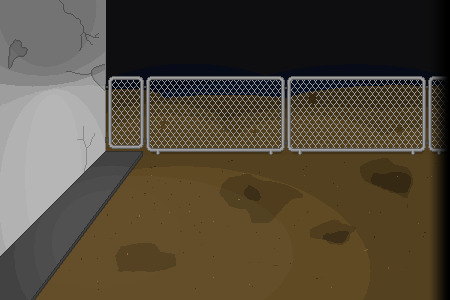
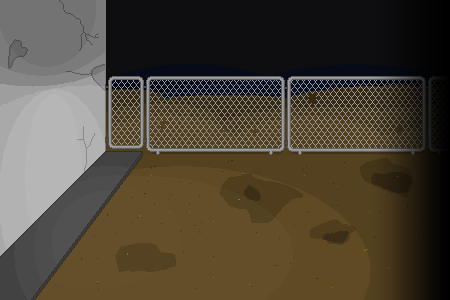
Addin assets to backyard scene

Changed region(s): [[0.8711, 0.24, 0.9956, 1.0]]

diff --git a/src/app/game/backyardScene/BackyardScene.ts b/src/app/game/backyardScene/BackyardScene.ts
@@ -5,6 +5,8 @@ import { Bili } from './Bili';
 import { LampBackyard } from './LampBackyard';
 import { Moon } from './Moon';
 import { Star } from './Star';
+import { CutFlowers } from './CutFlowers';
+import { Balloon } from './Balloon';
 import { Polygon } from '../../engine/utils/Polygon';
 import { IPoint } from '../../engine/utils/Interfaces';
 
@@ -12,14 +14,18 @@ const sceneOptions = {
     id: 'BACKYARD',
     backgroundId: 'BACKYARD_BG',
     boundariesConfig: new Polygon([
-        {x: 55, y: 216},
-        {x: 117, y: 164},
-        {x: 415, y: 164},
+        {x: 60, y: 216},
+        {x: 117, y: 173},
+        {x: 243, y: 173},
+        {x: 243, y: 197},
+        {x: 415, y: 197},
         {x: 415, y: 216}
     ]),
     things: [
         new BackyardDoorToBackstage(),
+        new CutFlowers(),
         new Flowers(),
+        new Balloon(),
         new Bili(),
         new LampBackyard(),
         new Moon()

diff --git a/src/app/game/backyardScene/Balloon.ts b/src/app/game/backyardScene/Balloon.ts
@@ -1,0 +1,28 @@
+import { Thing } from '../../engine/models/Thing';
+import { DoctortillaPlayer } from '../DoctortillaPlayer';
+import { selectedThing } from '../../engine/state/SelectedObjects';
+import { Costume } from '../backstageScene/Costume';
+import { Skirt } from '../backstageScene/Skirt';
+import { Coconut } from '../backstageScene/Coconut';
+import { Directions } from '../../engine/utils/Directions';
+
+const options = {
+    id: 'balloon',
+    x: 252,
+    y: 96,
+    spriteId: 'BALLOON',
+    name: 'balloon',
+    goToPosition: {
+        x: 239,
+        y: 185
+    },
+    directionToLook: Directions.RIGHT
+};
+
+export class Balloon extends Thing {
+
+    constructor() {
+        super(options);
+    }
+
+}

diff --git a/src/app/game/backyardScene/Bili.ts b/src/app/game/backyardScene/Bili.ts
@@ -2,17 +2,19 @@ import { Thing } from '../../engine/models/Thing';
 import { DoctortillaPlayer } from '../DoctortillaPlayer';
 import { SpeechBubble } from '../../engine/ui/SpeechBubble';
 import { ConversationWithBili } from './ConversationWithBili';
+import { Directions } from '../../engine/utils/Directions';
 
 let options = {
     id: 'bili',
-    x: 274,
-    y: 151,
+    x: 265,
+    y: 121,
     spriteId: 'BILI',
     name: 'bili',
     goToPosition: {
-        x: 260,
-        y: 215
-    }
+        x: 239,
+        y: 185
+    },
+    directionToLook: Directions.RIGHT
 };
 
 export class Bili extends Thing {

diff --git a/src/app/game/AssetsManager.ts b/src/app/game/AssetsManager.ts
@@ -66,7 +66,9 @@ const IMAGES: IImagesInfo = {
     'BACKYARD_DOOR_TO_BACKSTAGE': 'images/backyard/BACKYARD_DOOR_TO_BACKSTAGE.png',
     'LAMP_BACKYARD': 'images/backyard/LAMP_BACKYARD.png',
     'MOON': 'images/backyard/MOON.png',
-    'STAR': 'images/backyard/STAR.png'
+    'STAR': 'images/backyard/STAR.png',
+    'BALLOON': 'images/backyard/BALLOON.png',
+    'CUT_FLOWERS': 'images/backyard/CUT_FLOWERS.png'
 };
 
 const FONTS: IFontsInfo = {

diff --git a/src/app/game/backyardScene/Flowers.ts b/src/app/game/backyardScene/Flowers.ts
@@ -7,14 +7,14 @@ import { Coconut } from '../backstageScene/Coconut';
 
 const options = {
     id: 'flowers',
-    x: 104,
-    y: 161,
+    x: 127,
+    y: 148,
     spriteId: 'FLOWERS',
     inventoryImageId: 'FLOWERS',
     name: 'flowers',
     goToPosition: {
-        x: 120,
-        y: 185
+        x: 136,
+        y: 178
     },
     pickable: true
 };

diff --git a/src/app/game/backyardScene/CutFlowers.ts b/src/app/game/backyardScene/CutFlowers.ts
@@ -1,0 +1,16 @@
+import { Thing } from '../../engine/models/Thing';
+
+let options = {
+    id: 'cut_flowers',
+    x: 127,
+    y: 148,
+    spriteId: 'CUT_FLOWERS',
+    name: 'CUT_FLOWERS',
+    justDecoration: true
+};
+
+export class CutFlowers extends Thing {
+    constructor() {
+        super(options);
+    }
+}
